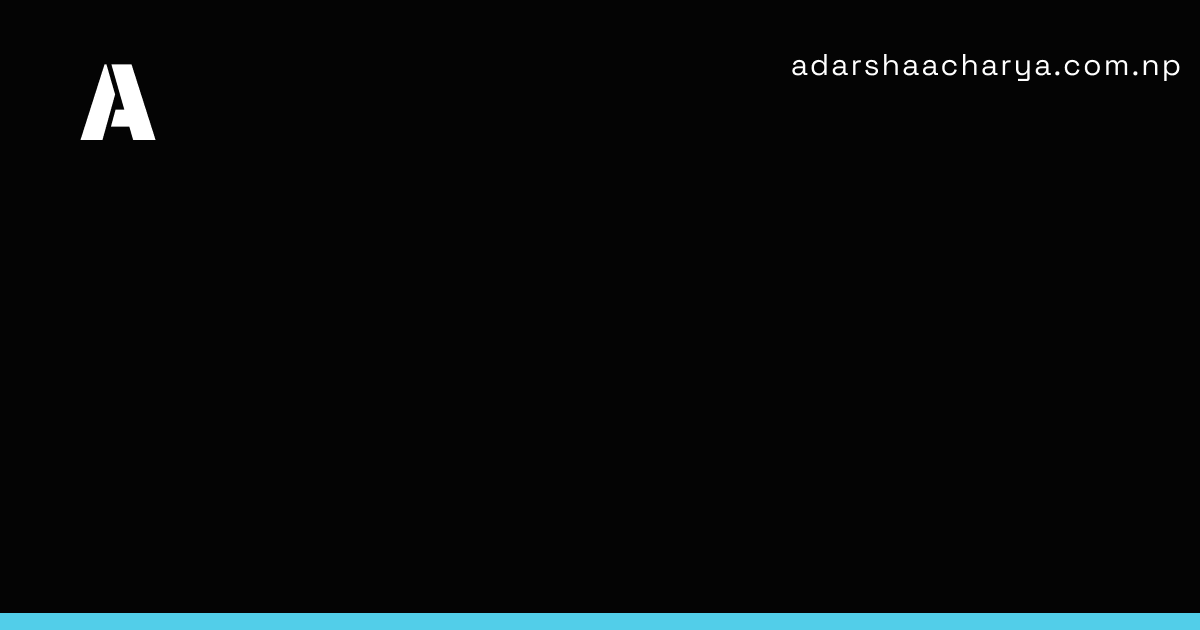
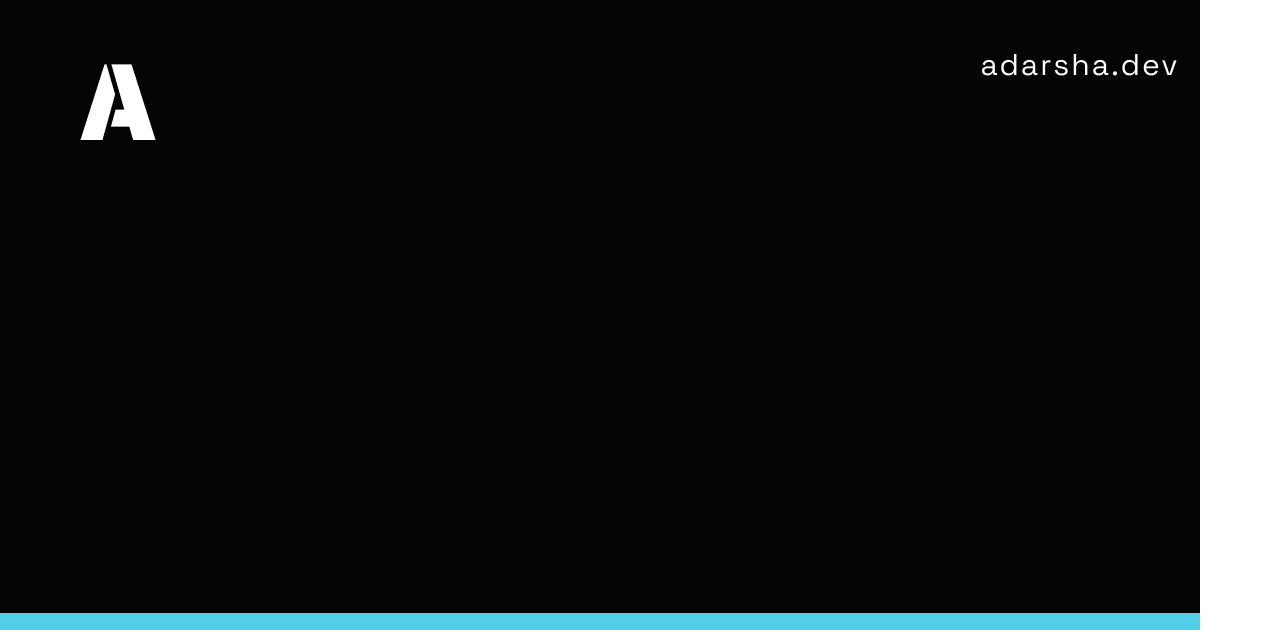
refactor: change url to adarsha.dev

Changed region(s): [[0.6475, 0.0, 1.0, 1.0], [0.0617, 0.0905, 0.1233, 0.2413]]

diff --git a/src/data/siteMetadata.ts b/src/data/siteMetadata.ts
@@ -1,12 +1,12 @@
 export const siteMetadata = {
   title: "Aadarsha Acharya",
   author: "Aadarsha Acharya",
-  siteUrl: "https://adarshaacharya.com.np",
+  siteUrl: "https://adarsha.dev",
   socialBanner: "/_static/default-og-card.png",
   description:
     "Aadarsha Acharya - Fullstack developer passionate about creating and sharing things on internet",
   keywords: [
-    `Aadarsha Acharya, Aadarsha, Acharya, adarshaacharya, Adarsha Acharya, Adarsha, Acharya, adarshaacharya.com.np`,
+    `Aadarsha Acharya, Aadarsha, Acharya, adarshaacharya, Adarsha Acharya, Adarsha, Acharya, adarsha.dev`,
   ],
   social: {
     email: "adarshaofficial@gmail.com",

diff --git a/src/app/head.tsx b/src/app/head.tsx
@@ -37,6 +37,10 @@ export default function Head() {
       />
       <link rel="alternate" type="application/rss+xml" href="/feed.xml" />
       <meta content="width=device-width, initial-scale=1" name="viewport" />
+      <meta
+        name="google-site-verification"
+        content="br9AjaAyJgS4OVigpXtHmm2DwdzuzMqzpK4G77lD2TY"
+      />
     </>
   );
 }

diff --git a/README.md b/README.md
@@ -1,4 +1,4 @@
-# adarshaacharya.com.np
+# adarsha.dev
 
 This is my personal website and blog built using:
 
@@ -12,8 +12,8 @@ This is my personal website and blog built using:
 This application requires Node.js v16.13+.
 
 ```bash
-git clone https://github.com/adarshaacharya/adarshaacharya.com.np
-cd adarshaacharya.com.np
+git clone https://github.com/adarshaacharya/adarsha.dev
+cd adarsha.dev
 pnpm install
 pnpm dev
 ```
@@ -26,7 +26,7 @@ If you want to use this project code as your own portfolio , you can go ahead. P
 
 ## Author
 
-- Website: https://adarshaacharya.com.np/
+- Website: https://adarsha.dev/
 - X: [@adarsha_ach](https://x.com/adarsha_ach)
 - Github: [@adarshaacharya](https://github.com/adarshaacharya)
 - LinkedIn: [@adarshaacharya](https://linkedin.com/in/adarshaacharya)
@@ -37,4 +37,4 @@ Give a ⭐ if you like the project!
 
 Copyright © 2020 [Aadarsha Acharya](https://github.com/adarshaacharya).<br />
 
-This project is [MIT](https://github.com/adarshaacharya/adarshaacharya.com.np/blob/master/LICENSE) licensed.
+This project is [MIT](https://github.com/adarshaacharya/adarsha.dev/blob/master/LICENSE) licensed.
